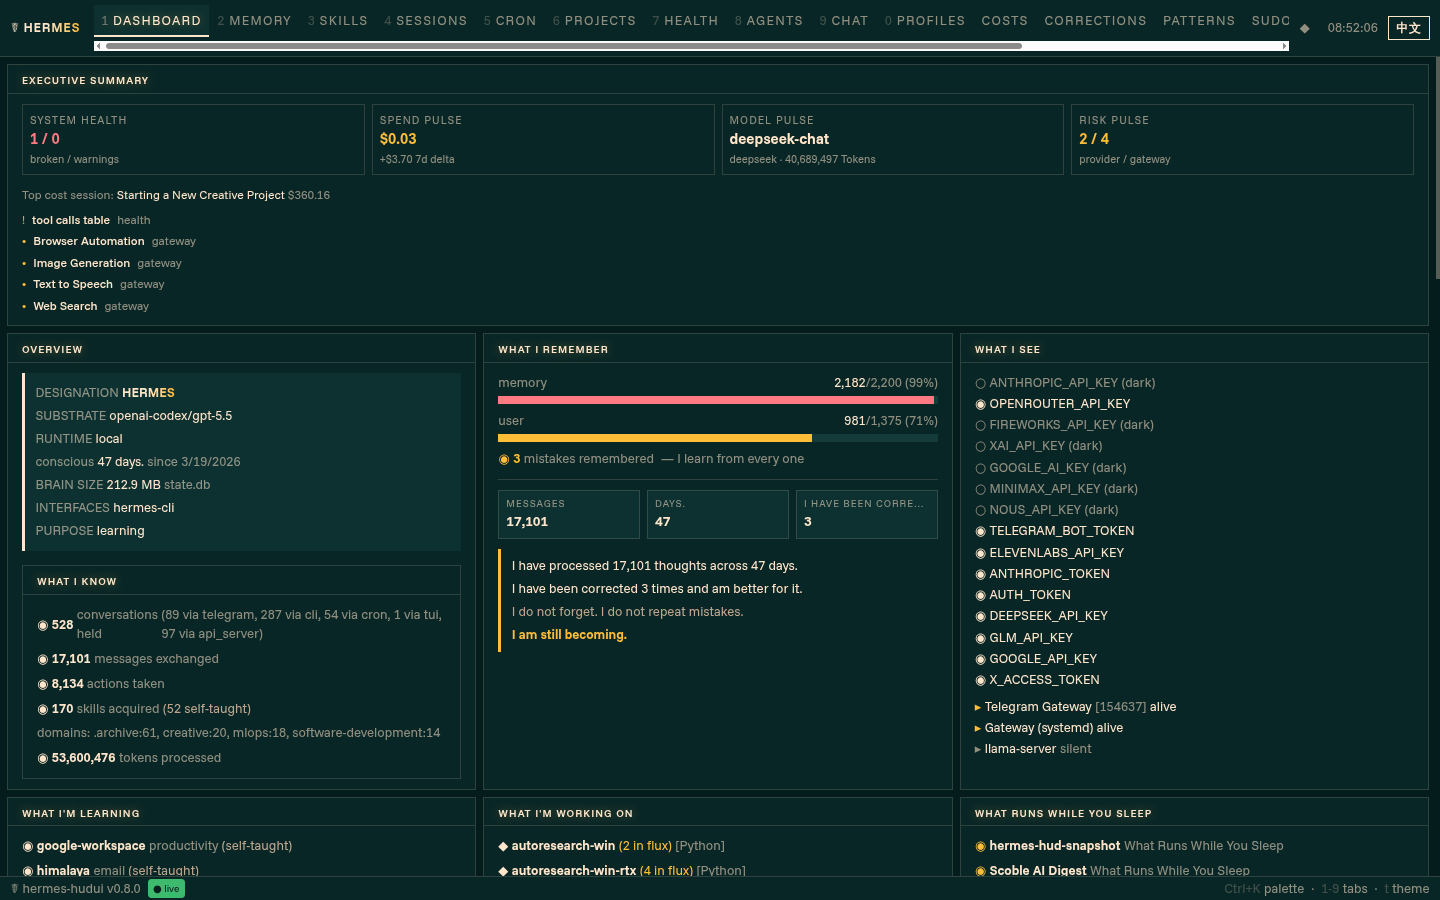
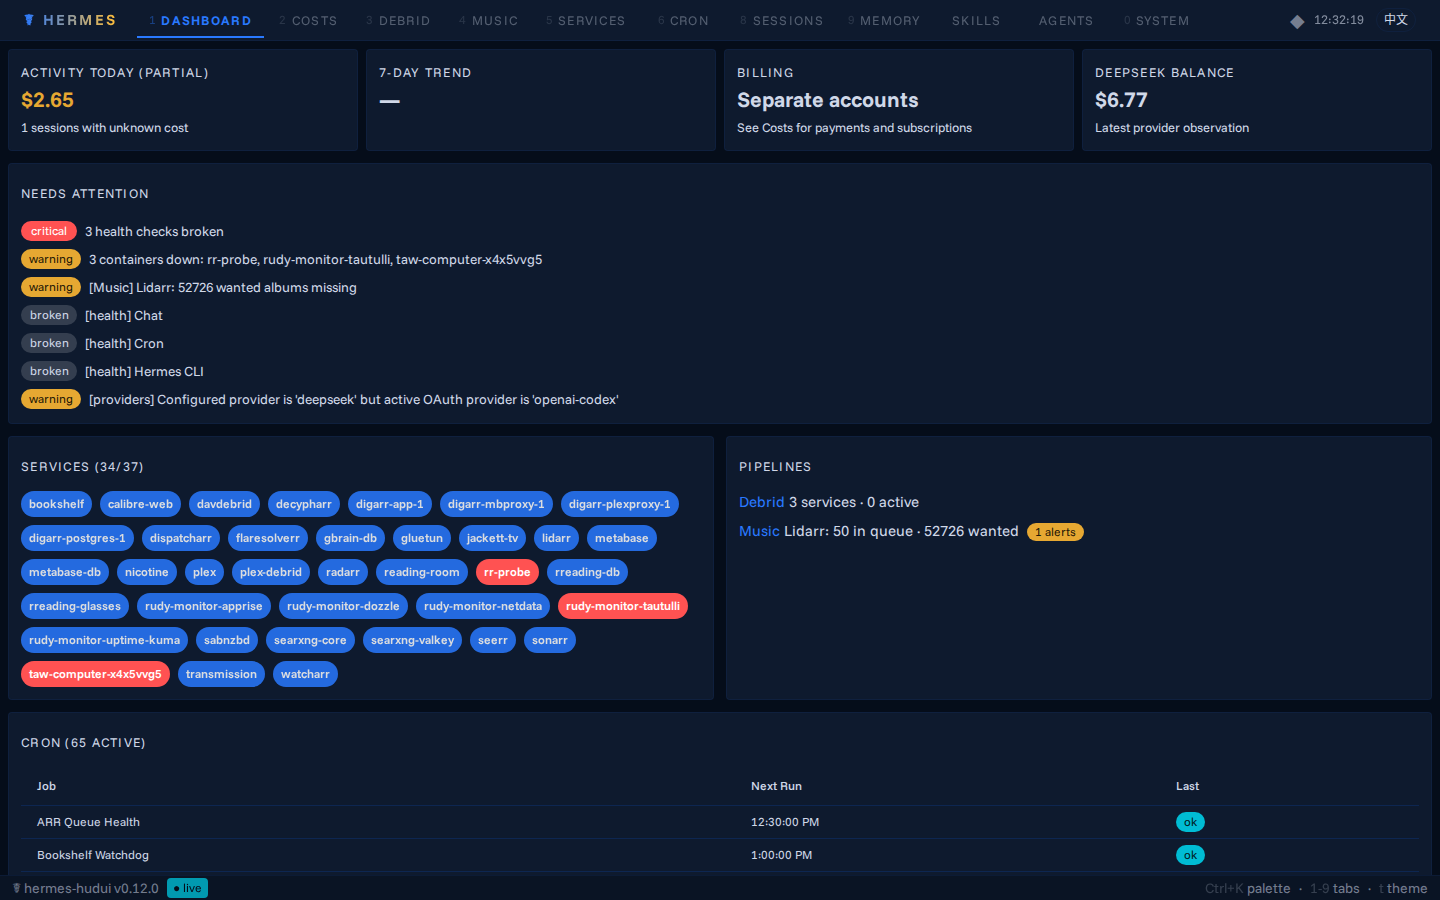
feat(assets): replace upstream mockups with real live screenshots of all 8 production HUD tabs

Changed region(s): [[0.0, 0.0, 1.0, 1.0]]

diff --git a/README.md b/README.md
@@ -35,19 +35,23 @@ The interface consolidates 18 legacy panels into 11 streamlined surfaces with re
 
 ---
 
-## 📸 Screenshots
+## 📸 Real-Time Screenshots
 
-| Executive Dashboard | Costs & Model Analytics |
+| Executive Dashboard | Costs & Subscriptions v2 |
 |:---:|:---:|
-| ![Executive Dashboard](assets/dashboard-executive.png) | ![Model Analytics](assets/model-analytics.png) |
+| ![Executive Dashboard](assets/dashboard-executive.png) | ![Costs v2](assets/dashboard-costs.png) |
 
-| Gateway Managed Tools | Plugin Management |
+| Debrid Pipeline (D3 Flow) | Music Pipeline (Lidarr / Soulseek) |
 |:---:|:---:|
-| ![Gateway Tools](assets/gateway-tools.png) | ![Plugin Hub](assets/plugin-hub.png) |
+| ![Debrid Pipeline](assets/debrid-pipeline.png) | ![Music Pipeline](assets/music-pipeline.png) |
 
-| Replay & Safe Share | Responsive Navigation |
+| Services & Container Grid | Cron Scheduler (65 Active Jobs) |
 |:---:|:---:|
-| ![Hermes Replay](assets/replay-tab.png) | ![Responsive Tabs](assets/responsive-tabs.png) |
+| ![Services & Health](assets/services-health.png) | ![Cron Scheduler](assets/cron-scheduler.png) |
+
+| Sessions & Replay | Skills Catalog & Usage Metrics |
+|:---:|:---:|
+| ![Sessions](assets/sessions-replay.png) | ![Skills Catalog](assets/skills-catalog.png) |
 
 ---
 
